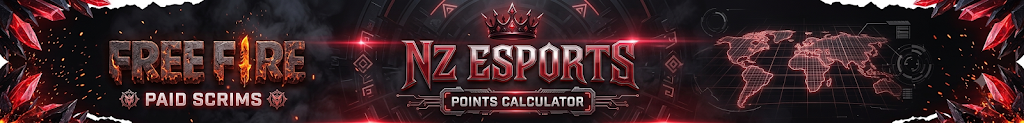
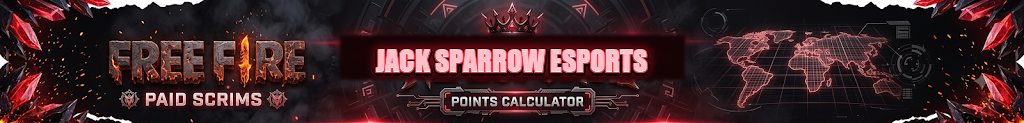
feat: update branding from Nz esports / Nz paid scrims to JACK SPARROW ESPORTS and JACK SPARROW PAID SCRIMS

Changed region(s): [[0.3125, 0.2683, 0.6875, 0.6829]]

diff --git a/app.js b/app.js
@@ -68,9 +68,9 @@ const DEFAULT_TEAMS = [
 
 // Multi-Lobby Configurations (3 Independent Lobbies with Isolated Databases)
 const LOBBY_CONFIGS = {
-  lobby1: { id: "lobby1", label: "LOBBY 1", defaultTitle: "NZ PAID SCRIMS - LOBBY 01", dbTag: "DB-01" },
-  lobby2: { id: "lobby2", label: "LOBBY 2", defaultTitle: "NZ PAID SCRIMS - LOBBY 02", dbTag: "DB-02" },
-  lobby3: { id: "lobby3", label: "LOBBY 3", defaultTitle: "NZ PAID SCRIMS - LOBBY 03", dbTag: "DB-03" }
+  lobby1: { id: "lobby1", label: "LOBBY 1", defaultTitle: "JACK SPARROW PAID SCRIMS - LOBBY 01", dbTag: "DB-01" },
+  lobby2: { id: "lobby2", label: "LOBBY 2", defaultTitle: "JACK SPARROW PAID SCRIMS - LOBBY 02", dbTag: "DB-02" },
+  lobby3: { id: "lobby3", label: "LOBBY 3", defaultTitle: "JACK SPARROW PAID SCRIMS - LOBBY 03", dbTag: "DB-03" }
 };
 
 function getActiveLobbyId() {
@@ -88,7 +88,7 @@ function getLobbyStorageKey(lobbyId = (typeof state !== "undefined" && state.act
 // App State
 const state = {
   activeLobby: "lobby1",
-  tournamentTitle: "NZ PAID SCRIMS - LOBBY 01",
+  tournamentTitle: "JACK SPARROW PAID SCRIMS - LOBBY 01",
   totalMatches: 3,
   teams: Array(12).fill(""),
   teamRosters: {}, // Keyed by team index (0..11): [p1, p2, p3, p4]
@@ -984,7 +984,7 @@ function bindEvents() {
 
   // Tournament title input
   tournamentNameInput.addEventListener("input", (e) => {
-    state.tournamentTitle = e.target.value.trim() || "NZ PAID SCRIMS";
+    state.tournamentTitle = e.target.value.trim() || "JACK SPARROW PAID SCRIMS";
     saveState();
   });
 
@@ -1414,7 +1414,7 @@ function handleStartTournament() {
   state.totalMatches = matches;
 
   const title = tournamentNameInput.value.trim();
-  state.tournamentTitle = title || "NZ PAID SCRIMS";
+  state.tournamentTitle = title || "JACK SPARROW PAID SCRIMS";
 
   // Collect registered teams (NO LONGER COMPULSORY 12 - at least 1 team is required)
   const inputs = teamsInputContainer.querySelectorAll(".team-name-input");
@@ -3981,7 +3981,7 @@ function closeResetConfirmationModal() {
 
 function handleExecuteTournamentReset() {
   const currentLobby = (typeof state !== "undefined" && state.activeLobby) || "lobby1";
-  const lobbyInfo = LOBBY_CONFIGS[currentLobby] || { label: currentLobby.toUpperCase(), defaultTitle: `NZ PAID SCRIMS - ${currentLobby.toUpperCase()}` };
+  const lobbyInfo = LOBBY_CONFIGS[currentLobby] || { label: currentLobby.toUpperCase(), defaultTitle: `JACK SPARROW PAID SCRIMS - ${currentLobby.toUpperCase()}` };
 
   // 1. Clear from browser localStorage for active lobby ONLY
   try {
@@ -4120,7 +4120,7 @@ function loadSavedState(targetLobbyId) {
       }
     }
 
-    const defaultTitle = (LOBBY_CONFIGS[activeLobby] && LOBBY_CONFIGS[activeLobby].defaultTitle) || `NZ PAID SCRIMS - ${activeLobby.toUpperCase()}`;
+    const defaultTitle = (LOBBY_CONFIGS[activeLobby] && LOBBY_CONFIGS[activeLobby].defaultTitle) || `JACK SPARROW PAID SCRIMS - ${activeLobby.toUpperCase()}`;
 
     if (saved) {
       const parsed = JSON.parse(saved);

diff --git a/public/app.js b/public/app.js
@@ -68,9 +68,9 @@ const DEFAULT_TEAMS = [
 
 // Multi-Lobby Configurations (3 Independent Lobbies with Isolated Databases)
 const LOBBY_CONFIGS = {
-  lobby1: { id: "lobby1", label: "LOBBY 1", defaultTitle: "NZ PAID SCRIMS - LOBBY 01", dbTag: "DB-01" },
-  lobby2: { id: "lobby2", label: "LOBBY 2", defaultTitle: "NZ PAID SCRIMS - LOBBY 02", dbTag: "DB-02" },
-  lobby3: { id: "lobby3", label: "LOBBY 3", defaultTitle: "NZ PAID SCRIMS - LOBBY 03", dbTag: "DB-03" }
+  lobby1: { id: "lobby1", label: "LOBBY 1", defaultTitle: "JACK SPARROW PAID SCRIMS - LOBBY 01", dbTag: "DB-01" },
+  lobby2: { id: "lobby2", label: "LOBBY 2", defaultTitle: "JACK SPARROW PAID SCRIMS - LOBBY 02", dbTag: "DB-02" },
+  lobby3: { id: "lobby3", label: "LOBBY 3", defaultTitle: "JACK SPARROW PAID SCRIMS - LOBBY 03", dbTag: "DB-03" }
 };
 
 function getActiveLobbyId() {
@@ -88,7 +88,7 @@ function getLobbyStorageKey(lobbyId = (typeof state !== "undefined" && state.act
 // App State
 const state = {
   activeLobby: "lobby1",
-  tournamentTitle: "NZ PAID SCRIMS - LOBBY 01",
+  tournamentTitle: "JACK SPARROW PAID SCRIMS - LOBBY 01",
   totalMatches: 3,
   teams: Array(12).fill(""),
   teamRosters: {}, // Keyed by team index (0..11): [p1, p2, p3, p4]
@@ -984,7 +984,7 @@ function bindEvents() {
 
   // Tournament title input
   tournamentNameInput.addEventListener("input", (e) => {
-    state.tournamentTitle = e.target.value.trim() || "NZ PAID SCRIMS";
+    state.tournamentTitle = e.target.value.trim() || "JACK SPARROW PAID SCRIMS";
     saveState();
   });
 
@@ -1414,7 +1414,7 @@ function handleStartTournament() {
   state.totalMatches = matches;
 
   const title = tournamentNameInput.value.trim();
-  state.tournamentTitle = title || "NZ PAID SCRIMS";
+  state.tournamentTitle = title || "JACK SPARROW PAID SCRIMS";
 
   // Collect registered teams (NO LONGER COMPULSORY 12 - at least 1 team is required)
   const inputs = teamsInputContainer.querySelectorAll(".team-name-input");
@@ -3981,7 +3981,7 @@ function closeResetConfirmationModal() {
 
 function handleExecuteTournamentReset() {
   const currentLobby = (typeof state !== "undefined" && state.activeLobby) || "lobby1";
-  const lobbyInfo = LOBBY_CONFIGS[currentLobby] || { label: currentLobby.toUpperCase(), defaultTitle: `NZ PAID SCRIMS - ${currentLobby.toUpperCase()}` };
+  const lobbyInfo = LOBBY_CONFIGS[currentLobby] || { label: currentLobby.toUpperCase(), defaultTitle: `JACK SPARROW PAID SCRIMS - ${currentLobby.toUpperCase()}` };
 
   // 1. Clear from browser localStorage for active lobby ONLY
   try {
@@ -4120,7 +4120,7 @@ function loadSavedState(targetLobbyId) {
       }
     }
 
-    const defaultTitle = (LOBBY_CONFIGS[activeLobby] && LOBBY_CONFIGS[activeLobby].defaultTitle) || `NZ PAID SCRIMS - ${activeLobby.toUpperCase()}`;
+    const defaultTitle = (LOBBY_CONFIGS[activeLobby] && LOBBY_CONFIGS[activeLobby].defaultTitle) || `JACK SPARROW PAID SCRIMS - ${activeLobby.toUpperCase()}`;
 
     if (saved) {
       const parsed = JSON.parse(saved);

diff --git a/index.html b/index.html
@@ -19,7 +19,7 @@
   <div class="app-container">
     <!-- Top Header Banner - Exact Custom Graphic Banner -->
     <header class="scrims-header scrims-header-img-wrap">
-      <img src="assets/header_banner.png" alt="Free Fire Paid Scrims - NZ ESPORTS Points Calculator" class="scrims-header-banner-img">
+      <img src="assets/header_banner.png" alt="Free Fire Paid Scrims - JACK SPARROW ESPORTS Points Calculator" class="scrims-header-banner-img">
     </header>
 
     <!-- 3-LOBBY SELECTOR & MULTI-DATABASE CONTROLLER -->
@@ -91,7 +91,7 @@
                 <div class="form-group">
                   <label for="tournament-name">TOURNAMENT / SCRIMS TITLE</label>
                   <div class="cyber-input-wrap">
-                    <input type="text" id="tournament-name" class="cyber-input" value="NZ PAID SCRIMS - BATTLE 01" placeholder="Enter scrims title...">
+                    <input type="text" id="tournament-name" class="cyber-input" value="JACK SPARROW PAID SCRIMS - BATTLE 01" placeholder="Enter scrims title...">
                     <span class="input-glow"></span>
                   </div>
                 </div>
@@ -265,7 +265,7 @@
                 <span class="save-icon">💾</span> <span id="autosave-text">AUTO-SAVED TO BROWSER</span>
               </div>
             </div>
-            <h2 id="active-tournament-title">NZ PAID SCRIMS</h2>
+            <h2 id="active-tournament-title">JACK SPARROW PAID SCRIMS</h2>
             <div class="meta-stats">
               <span class="meta-tag">TOTAL MATCHES: <b id="display-total-matches">6</b></span>
               <span class="meta-divider">•</span>
@@ -733,7 +733,7 @@
                 This will permanently delete all <b>saved match scores, team placements, and tournament progress</b> from your browser's local storage to start a new scrim.
               </p>
               <div class="reset-info-box">
-                <div><span>Tournament:</span> <b id="reset-dialog-title">NZ PAID SCRIMS</b></div>
+                <div><span>Tournament:</span> <b id="reset-dialog-title">JACK SPARROW PAID SCRIMS</b></div>
                 <div><span>Total Matches:</span> <b id="reset-dialog-matches">6</b></div>
                 <div><span>Saved Matches:</span> <b id="reset-dialog-saved-count">0</b></div>
               </div>
@@ -767,7 +767,7 @@
               <!-- Tournament Quick Overview Card -->
               <div class="share-overview-card" id="share-overview-card">
                 <div class="share-overview-header">
-                  <span class="share-overview-title" id="share-overview-title">NZ PAID SCRIMS</span>
+                  <span class="share-overview-title" id="share-overview-title">JACK SPARROW PAID SCRIMS</span>
                   <span class="share-overview-badge" id="share-overview-status">6 MATCHES SAVED</span>
                 </div>
                 <div class="share-overview-stats">

diff --git a/public/index.html b/public/index.html
@@ -19,7 +19,7 @@
   <div class="app-container">
     <!-- Top Header Banner - Exact Custom Graphic Banner -->
     <header class="scrims-header scrims-header-img-wrap">
-      <img src="assets/header_banner.png" alt="Free Fire Paid Scrims - NZ ESPORTS Points Calculator" class="scrims-header-banner-img">
+      <img src="assets/header_banner.png" alt="Free Fire Paid Scrims - JACK SPARROW ESPORTS Points Calculator" class="scrims-header-banner-img">
     </header>
 
     <!-- 3-LOBBY SELECTOR & MULTI-DATABASE CONTROLLER -->
@@ -91,7 +91,7 @@
                 <div class="form-group">
                   <label for="tournament-name">TOURNAMENT / SCRIMS TITLE</label>
                   <div class="cyber-input-wrap">
-                    <input type="text" id="tournament-name" class="cyber-input" value="NZ PAID SCRIMS - BATTLE 01" placeholder="Enter scrims title...">
+                    <input type="text" id="tournament-name" class="cyber-input" value="JACK SPARROW PAID SCRIMS - BATTLE 01" placeholder="Enter scrims title...">
                     <span class="input-glow"></span>
                   </div>
                 </div>
@@ -265,7 +265,7 @@
                 <span class="save-icon">💾</span> <span id="autosave-text">AUTO-SAVED TO BROWSER</span>
               </div>
             </div>
-            <h2 id="active-tournament-title">NZ PAID SCRIMS</h2>
+            <h2 id="active-tournament-title">JACK SPARROW PAID SCRIMS</h2>
             <div class="meta-stats">
               <span class="meta-tag">TOTAL MATCHES: <b id="display-total-matches">6</b></span>
               <span class="meta-divider">•</span>
@@ -733,7 +733,7 @@
                 This will permanently delete all <b>saved match scores, team placements, and tournament progress</b> from your browser's local storage to start a new scrim.
               </p>
               <div class="reset-info-box">
-                <div><span>Tournament:</span> <b id="reset-dialog-title">NZ PAID SCRIMS</b></div>
+                <div><span>Tournament:</span> <b id="reset-dialog-title">JACK SPARROW PAID SCRIMS</b></div>
                 <div><span>Total Matches:</span> <b id="reset-dialog-matches">6</b></div>
                 <div><span>Saved Matches:</span> <b id="reset-dialog-saved-count">0</b></div>
               </div>
@@ -767,7 +767,7 @@
               <!-- Tournament Quick Overview Card -->
               <div class="share-overview-card" id="share-overview-card">
                 <div class="share-overview-header">
-                  <span class="share-overview-title" id="share-overview-title">NZ PAID SCRIMS</span>
+                  <span class="share-overview-title" id="share-overview-title">JACK SPARROW PAID SCRIMS</span>
                   <span class="share-overview-badge" id="share-overview-status">6 MATCHES SAVED</span>
                 </div>
                 <div class="share-overview-stats">

diff --git a/test_inch_by_inch_verification.js b/test_inch_by_inch_verification.js
@@ -282,7 +282,7 @@ app.switchLobby("lobby2");
 app.handleExecuteTournamentReset();
 
 assert.strictEqual(app.state.activeLobby, "lobby2");
-assert.strictEqual(app.state.tournamentTitle, "NZ PAID SCRIMS - LOBBY 02");
+assert.strictEqual(app.state.tournamentTitle, "JACK SPARROW PAID SCRIMS - LOBBY 02");
 assert.strictEqual(app.state.matches.every(m => !m.isSaved), true, "Lobby 2 matches must be cleared");
 
 // Switch back to Lobby 1: MUST STILL HAVE ALL MATCHES!
